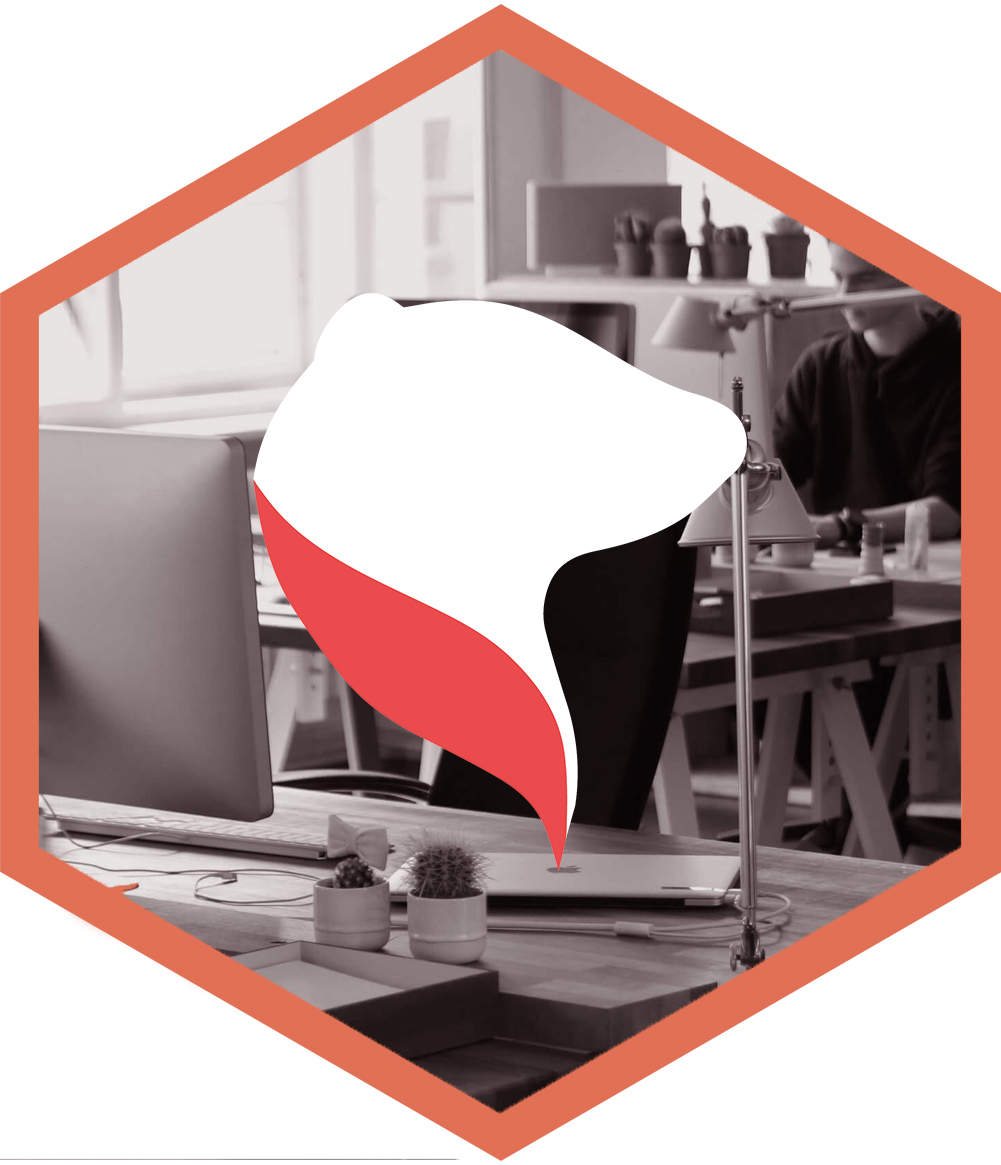
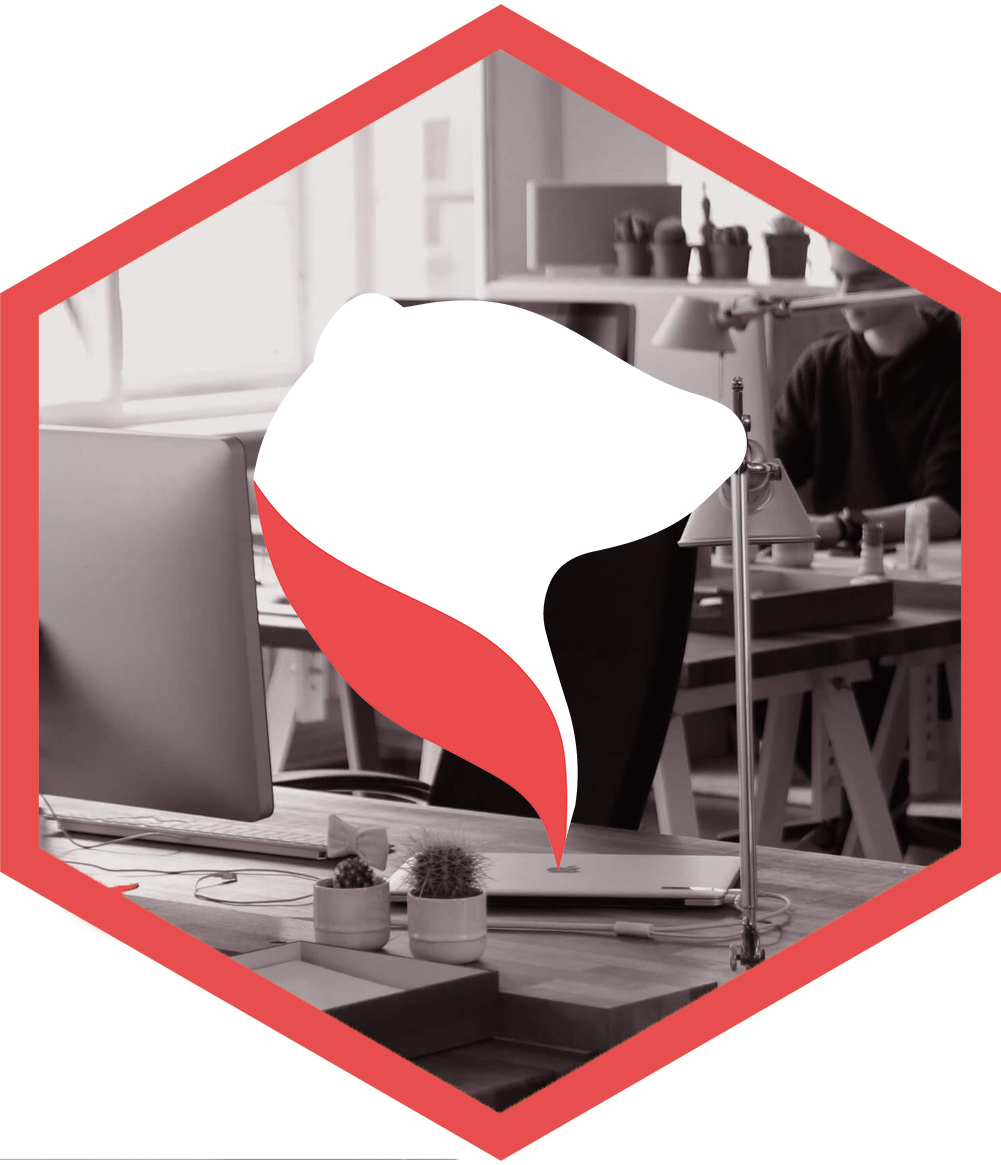
poly showcase couleurs + images fix

Changed region(s): [[0.0, 0.0, 1.0, 1.0]]

diff --git a/src/app/models/portfolio.ts b/src/app/models/portfolio.ts
@@ -7,6 +7,7 @@ export class Portfolio {
   link;
   image;
   max = 4;
+  color;
 
   constructor() {
     this.id = 1;
@@ -22,27 +23,31 @@ export class Portfolio {
         this.description = 'Page principale de ce site. Application full-page en Angular conçue avec la librairie GSAP.';
         this.link = 'https://www.jhaegman.com/';
         this.image = '';
+        this.color = '#086699';
         break;
-      case 2:
+      case 3:
         this.short = 'Tokyo';
         this.name = 'Tokyo Agency';
         this.description = 'Application Angular concernant une agence immobillière fictive à Tokyo.\n Expérimentation des effets parallaxes.';
         this.link = 'https://www.jhaegman.com/tokyo-agency';
         this.image = '';
+        this.color = '#FAA91A';
         break;
-      case 3:
+      case 4:
         this.short = 'Nevada';
         this.name = 'Nevada 2087';
         this.description = 'Court-métrage d\'animation au format numérique, réalisé en collaboration avec des étudiants en animation aux Ateliers de Sèvres, à Paris.';
         this.link = 'https://www.jhaegman.com/nevada-2087/';
         this.image = '';
+        this.color = '#68a084';
         break;
-      case 4:
+      case 2:
         this.short = 'FerretDesign';
         this.name = 'FerretDesign';
-        this.description = 'Application Angular et Materialize.css. Site concernant un studio de design fictif.';
+        this.description = 'Application Angular et Materialize.css. Studio de design fictif.';
         this.link = 'https://www.jhaegman.com/ferret-design/';
         this.image = '';
+        this.color = '#EB4B4D';
         break;
 
 

diff --git a/src/app/showcase/showcase.component.ts b/src/app/showcase/showcase.component.ts
@@ -34,6 +34,7 @@ export class ShowcaseComponent implements OnInit, OnDestroy {
 
     // show first img
     document.getElementById('img' + this.current.short).style.display = 'inherit';
+    document.getElementById('showcasePreviewPoly').style.fill = this.current.color;
 
     // event listener
     setTimeout(() => {
@@ -93,6 +94,7 @@ export class ShowcaseComponent implements OnInit, OnDestroy {
     this.imageFadeOut();
     this.fade();
     this.current.previous();
+    document.getElementById('showcasePreviewPoly').style.fill = this.current.color;
     window.setTimeout(() => {
       this.imageFadeIn();
     }, 200);
@@ -106,6 +108,7 @@ export class ShowcaseComponent implements OnInit, OnDestroy {
     this.imageFadeOut();
     this.fade();
     this.current.next();
+    document.getElementById('showcasePreviewPoly').style.fill = this.current.color;
     window.setTimeout(() => {
       this.imageFadeIn();
     }, 200);
@@ -117,6 +120,7 @@ export class ShowcaseComponent implements OnInit, OnDestroy {
       this.imageFadeOut();
       this.fade();
       this.current.goto(id);
+      document.getElementById('showcasePreviewPoly').style.fill = this.current.color;
       window.setTimeout(() => {
         this.imageFadeIn();
       }, 200);

diff --git a/src/app/showcase/showcase.component.html b/src/app/showcase/showcase.component.html
@@ -19,7 +19,7 @@
           <img id='imgNevada' src="assets/img/nevada-crop.jpg" alt="Aperçu du site Nevada 2087">
           <img id='imgTokyo' src="assets/img/tokyo-crop.jpg" alt="Aperçu du site Tokyo Agency">
           <img id='imgFerretDesign' src="assets/img/ferretDesign-crop.jpg" alt="Aperçu du site FerretDesign">
-          <svg viewBox="0 0 424 489.59">
+          <svg id='showcasePreviewPoly' viewBox="0 0 424 489.59">
             <path d="M212,17.32,409,131.06V358.53L212,472.27,15,358.53V131.06L212,17.32M212,0,0,122.4V367.19l212,122.4,212-122.4V122.4L212,0Z"/>
           </svg>
         </a>

diff --git a/src/app/showcase/showcase.component.scss b/src/app/showcase/showcase.component.scss
@@ -39,10 +39,11 @@ $dark : #72392c;
       position: relative;
       height: 50vh;
       float: right;
-      svg{
+      #showcasePreviewPoly{
         position: absolute;
         height: 100%;
         fill: $primary;
+        transition: all 1s;
       }
       a{
         img{
